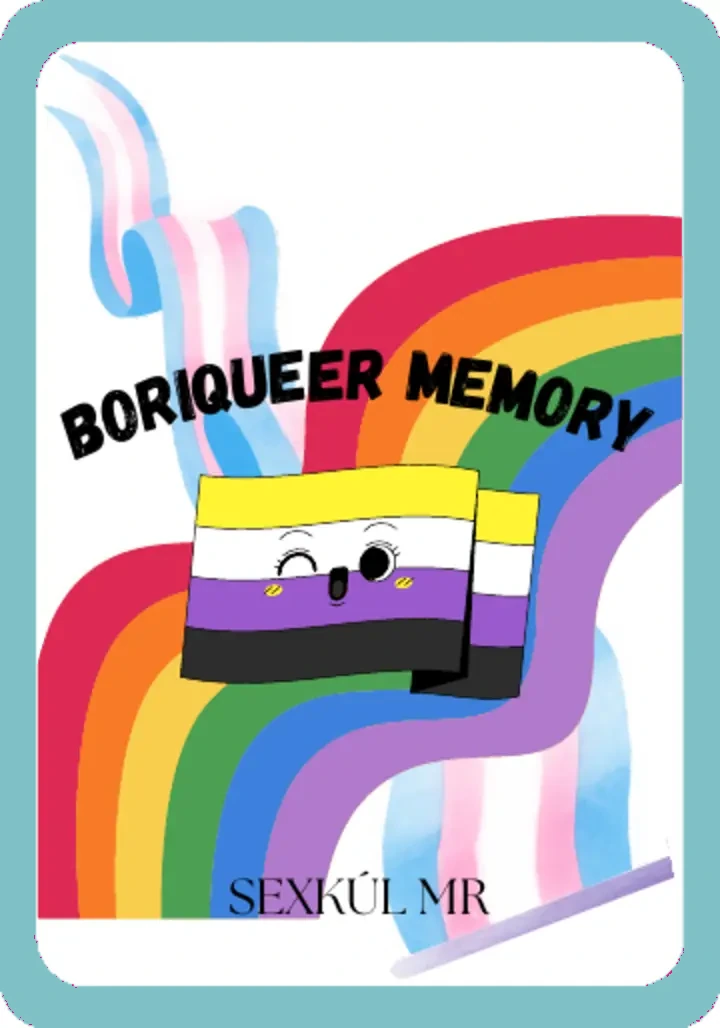
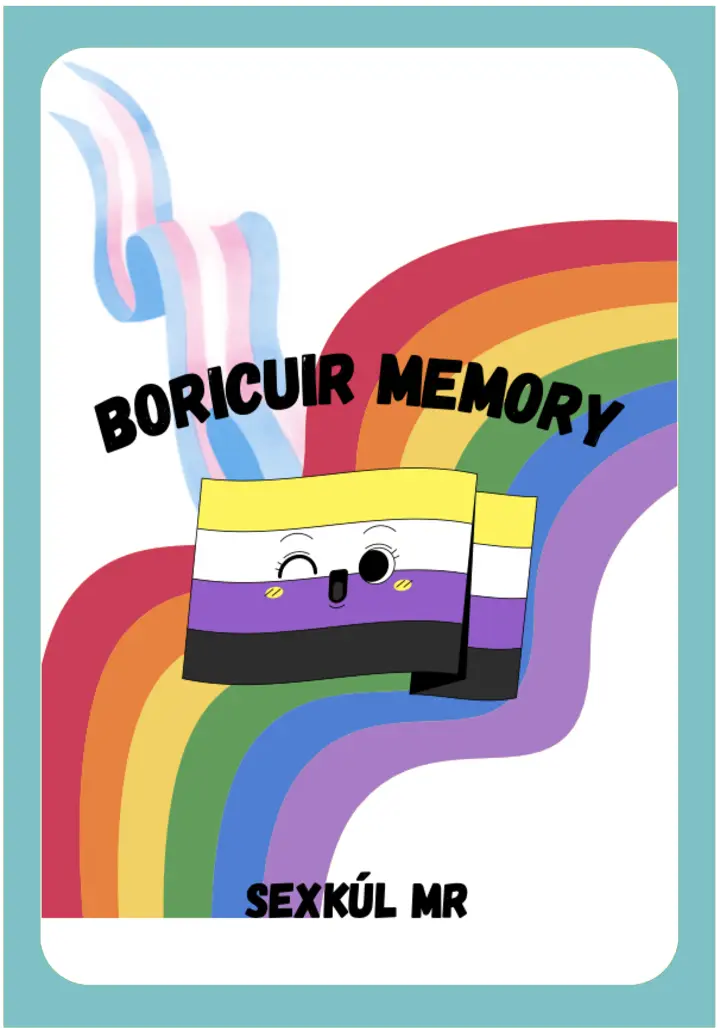
Changing back of cards and adding more enhancements

diff --git a/src/styles.css b/src/styles.css
@@ -2070,6 +2070,97 @@ h1 {
   }
 }
 
+/* 2026 lobby, match-header and compact-footer refinements */
+.online-shell > .online-wrap {
+  padding-top: 10px;
+}
+
+.lobby-actions .ready-button {
+  border-color: transparent;
+  color: #fff;
+  background: linear-gradient(110deg, #715bd3 0%, #b541a6 52%, #ed168c 100%);
+  box-shadow: 0 11px 26px rgba(113, 91, 211, 0.24);
+}
+
+.lobby-actions .ready-button:hover:not(:disabled) {
+  transform: translateY(-1px);
+  box-shadow: 0 14px 30px rgba(113, 91, 211, 0.3);
+}
+
+.game-title-row > .home-button {
+  border-color: rgba(113, 91, 211, 0.22);
+  color: #fff;
+  background: linear-gradient(145deg, #715bd3, #a13eaa);
+  box-shadow: 0 9px 23px rgba(92, 67, 176, 0.25);
+}
+
+.game-title-row > .home-button:hover {
+  transform: translateY(-1px);
+  background: linear-gradient(145deg, #6550c8, #922f9e);
+  box-shadow: 0 12px 28px rgba(92, 67, 176, 0.31);
+}
+
+.game-mode-eyebrow {
+  --mode-accent: #715bd3;
+  color: var(--mode-accent);
+}
+
+.game-mode-eyebrow svg {
+  color: currentColor;
+}
+
+@media (max-width: 760px) {
+  .online-shell > .online-wrap {
+    padding-top: 4px;
+  }
+
+  .footer-inner {
+    display: grid;
+    grid-template-columns: minmax(0, 1fr) auto;
+    align-items: center;
+    gap: 13px 10px;
+    padding: 14px;
+  }
+
+  .footer-creator {
+    min-width: 0;
+  }
+
+  .footer-creator img {
+    width: 38px;
+    height: 38px;
+  }
+
+  .footer-contact {
+    grid-column: 1 / -1;
+    grid-row: 2;
+    display: grid;
+    grid-template-columns: minmax(0, 1fr) auto;
+    gap: 6px;
+    width: 100%;
+  }
+
+  .footer-contact a {
+    min-width: 0;
+    padding: 7px 8px;
+    white-space: nowrap;
+    font-size: clamp(0.53rem, 2.5vw, 0.64rem);
+  }
+
+  .footer-studio {
+    grid-column: 2;
+    grid-row: 1;
+    align-items: flex-end;
+    white-space: nowrap;
+  }
+}
+
+@media (max-width: 370px) {
+  .footer-contact {
+    grid-template-columns: 1fr;
+  }
+}
+
 /* Audio settings */
 .settings-button {
   position: fixed;
@@ -4195,7 +4286,92 @@ svg {
 .automatic-board-summary strong { font-size: .78rem; }
 .category-summary { max-width: 210px; }
 .category-summary strong { overflow: hidden; text-overflow: ellipsis; white-space: nowrap; }
-.category-pill { max-width: 260px; overflow: hidden; padding: 8px 12px; border: 1px solid #e5dce7; border-radius: 999px; color: #6c5c70; background: #fff; text-overflow: ellipsis; white-space: nowrap; font-size: .68rem; font-weight: 800; }
+.category-pill {
+  --category-pill-color: #715bd3;
+
+  display: inline-flex;
+  align-items: center;
+  justify-content: center;
+  width: fit-content;
+  max-width: 100%;
+  min-height: 38px;
+  padding: 8px 13px;
+  overflow: hidden;
+  border: 1px solid
+    color-mix(in srgb, var(--category-pill-color) 38%, white);
+  border-radius: 999px;
+  color: color-mix(in srgb, var(--category-pill-color) 72%, #29223e);
+  background: color-mix(
+    in srgb,
+    var(--category-pill-color) 16%,
+    white
+  );
+  box-shadow:
+    0 7px 18px
+      color-mix(in srgb, var(--category-pill-color) 13%, transparent),
+    inset 0 1px 0 rgba(255, 255, 255, 0.8);
+  text-align: center;
+  text-overflow: ellipsis;
+  white-space: nowrap;
+  font-size: 0.68rem;
+  font-weight: 800;
+}
+
+/* Asuntos LGBTQIA+ generales */
+.category-pill.category-general,
+.category-pill[data-category="general"] {
+  --category-pill-color: #eb1e9c;
+}
+
+/* Puerto Rico / ser puertorriqueñe */
+.category-pill.category-puerto-rico,
+.category-pill[data-category="puerto-rico"] {
+  --category-pill-color: #2da342;
+}
+
+/* Salud sexual Queer/LGBTQIA+ */
+.category-pill.category-sexual-health,
+.category-pill[data-category="sexual-health"] {
+  --category-pill-color: #f56735;
+}
+
+/* Identidades de género y orientaciones sexuales */
+.category-pill.category-identities,
+.category-pill[data-category="identities"] {
+  --category-pill-color: #7fc0c6;
+}
+
+/* Multiple selected categories */
+.category-pill.category-multiple,
+.category-pill[data-category="multiple"],
+.category-pill[data-category="all"] {
+  color: #593653;
+  border-color: rgba(171, 69, 154, 0.28);
+  background:
+    linear-gradient(
+      110deg,
+      color-mix(in srgb, #eb1e9c 22%, white),
+      color-mix(in srgb, #2da342 18%, white),
+      color-mix(in srgb, #f56735 20%, white),
+      color-mix(in srgb, #7fc0c6 25%, white)
+    );
+  box-shadow: 0 7px 18px rgba(91, 54, 105, 0.12);
+}
+
+@media (max-width: 600px) {
+  .enhanced-game-header .game-actions {
+    width: 100%;
+  }
+
+  .enhanced-game-header .category-pill {
+    width: 100%;
+    max-width: none;
+    min-height: 43px;
+    padding: 10px 14px;
+    white-space: normal;
+    line-height: 1.3;
+  }
+}
 .library-category-filters { display: flex; flex-wrap: wrap; gap: 8px; margin: 18px 0 22px; overflow: visible; }
 .library-category-filters button { display: flex; flex: 1 1 190px; align-items: center; gap: 8px; min-width: 0; min-height: 48px; padding: 9px 11px; border: 1px solid #e3dae4; border-radius: 13px; color: #65566a; background: #fff; cursor: pointer; font-size: .65rem; font-weight: 800; }
 .library-category-filters button small { margin-left: auto; color: #998b9c; }
@@ -5095,5 +5271,73 @@ svg {
   .wizard-section.is-mobile-active,
   .start-bar.is-mobile-active {
     animation: none;
+  }
+}
+
+/* Final specificity layer for match and compact footer controls. */
+.online-shell > .online-wrap {
+  padding-top: 10px;
+}
+.lobby-actions .online-secondary.ready-button {
+  border-color: transparent;
+  color: #fff;
+  background: linear-gradient(110deg, #715bd3 0%, #b541a6 52%, #ed168c 100%);
+  box-shadow: 0 11px 26px rgba(113, 91, 211, 0.24);
+}
+.game-title-row > .home-button {
+  border-color: rgba(113, 91, 211, 0.22);
+  color: #fff;
+  background: linear-gradient(145deg, #715bd3, #a13eaa);
+  box-shadow: 0 9px 23px rgba(92, 67, 176, 0.25);
+}
+.game-mode-eyebrow {
+  color: var(--mode-accent, #715bd3);
+}
+.game-mode-eyebrow svg {
+  color: currentColor;
+}
+@media (max-width: 760px) {
+  .online-shell > .online-wrap {
+    padding-top: 4px;
+  }
+  .app-footer .footer-inner {
+    display: grid;
+    grid-template-columns: minmax(0, 1fr) auto;
+    align-items: center;
+    flex-direction: initial;
+    gap: 13px 10px;
+    padding: 14px;
+  }
+  .app-footer .footer-creator {
+    min-width: 0;
+  }
+  .app-footer .footer-creator img {
+    width: 38px;
+    height: 38px;
+  }
+  .app-footer .footer-contact {
+    grid-column: 1 / -1;
+    grid-row: 2;
+    display: grid;
+    grid-template-columns: minmax(0, 1fr) auto;
+    gap: 6px;
+    width: 100%;
+  }
+  .app-footer .footer-contact a {
+    min-width: 0;
+    padding: 7px 8px;
+    white-space: nowrap;
+    font-size: clamp(0.53rem, 2.5vw, 0.64rem);
+  }
+  .app-footer .footer-studio {
+    grid-column: 2;
+    grid-row: 1;
+    align-items: flex-end;
+    white-space: nowrap;
+  }
+}
+@media (max-width: 370px) {
+  .app-footer .footer-contact {
+    grid-template-columns: 1fr;
   }
 }

diff --git a/src/components/OnlineGameScreen.tsx b/src/components/OnlineGameScreen.tsx
@@ -242,7 +242,11 @@ export default function OnlineGameScreen({ roomId, onLeave }: OnlineGameScreenPr
                 : <div className="lobby-player empty-player" key={index}><span><Icon name="plus" /></span><p>{t("waitingForPlayer")} {index + 1}</p></div>;
             })}</div>
             <div className="lobby-actions">
-              {me && user?.id !== room.host_id && <button type="button" className="online-secondary" onClick={() => perform(() => setPlayerReady(room.id, !me.is_ready))}>{me.is_ready ? t("notReady") : t("imReady")}</button>}
+              {me && user?.id !== room.host_id &&
+                <button
+                  type="button"
+                  className={`online-secondary ${me.is_ready ? "ready-button" : ""}`}
+                  onClick={() => perform(() => setPlayerReady(room.id, !me.is_ready))}>{me.is_ready ? t("notReady") : t("imReady")}</button>}
               {user?.id === room.host_id && <button type="button" className="online-primary" disabled={!canStart} data-sound="custom" onClick={() => perform(async () => { playEffect("start"); await startOnlineRoom(room.id); })}>{players.length < 2 ? t("waitingAnother") : !players.every((player) => player.is_ready) ? t("waitingReady") : t("startGame")}</button>}
             </div>
           </section>
@@ -259,7 +263,7 @@ export default function OnlineGameScreen({ roomId, onLeave }: OnlineGameScreenPr
   return (
     <main className="game-shell online-game-shell" onPointerDown={stopCelebration}>
       <section className="game-wrap">
-        <header className="game-header enhanced-game-header"><div className="game-title-row"><button className="home-button" type="button" onClick={() => setConfirmQuit(true)}><Icon name="arrowLeft" /></button><div><div className="eyebrow"><Icon name="wifi" /> {t("online").toUpperCase()} · {t("roomCode").toUpperCase()} {room.code}</div><h1>Boricuir Memory</h1></div></div><div className="game-actions"><span className={`active-mode-pill accent-${mode?.accent || "pink"}`}>{mode && <Icon name={mode.icon} />} {mode?.name}</span><span className="category-pill">{getCategoriesLabel(room.categories?.length ? room.categories : ALL_CATEGORY_IDS, language)}</span></div></header>
+        <header className="game-header enhanced-game-header"><div className="game-title-row"><button className="home-button" type="button" onClick={() => setConfirmQuit(true)}><Icon name="arrowLeft" /></button><div><div className={`eyebrow game-mode-eyebrow accent-${mode?.accent || "pink"}`}>{mode && <Icon name={mode.icon} />} {mode?.shortName} {t("mode")} · {t("roomCode").toUpperCase()} {room.code}</div><h1>Boricuir Memory</h1></div></div><div className="game-actions"><span className={`active-mode-pill accent-${mode?.accent || "pink"}`}>{mode && <Icon name={mode.icon} />} {mode?.name}</span><span className="category-pill">{getCategoriesLabel(room.categories?.length ? room.categories : ALL_CATEGORY_IDS, language)}</span></div></header>
         <div className="score-strip enhanced-score-strip">
           <div className="score-item">
             <span>{t("matches")}</span>

diff --git a/src/components/GameScreen.tsx b/src/components/GameScreen.tsx
@@ -470,7 +470,7 @@ export default function GameScreen({ config, onHome }: GameScreenProps) {
               <Icon name="arrowLeft" />
             </button>
             <div>
-              <div className="eyebrow">
+              <div className={`eyebrow game-mode-eyebrow accent-${mode.accent}`}>
                 <Icon name={mode.icon} /> {mode.shortName} {t("mode")}
               </div>
               <h1>Boricuir Memory</h1>
